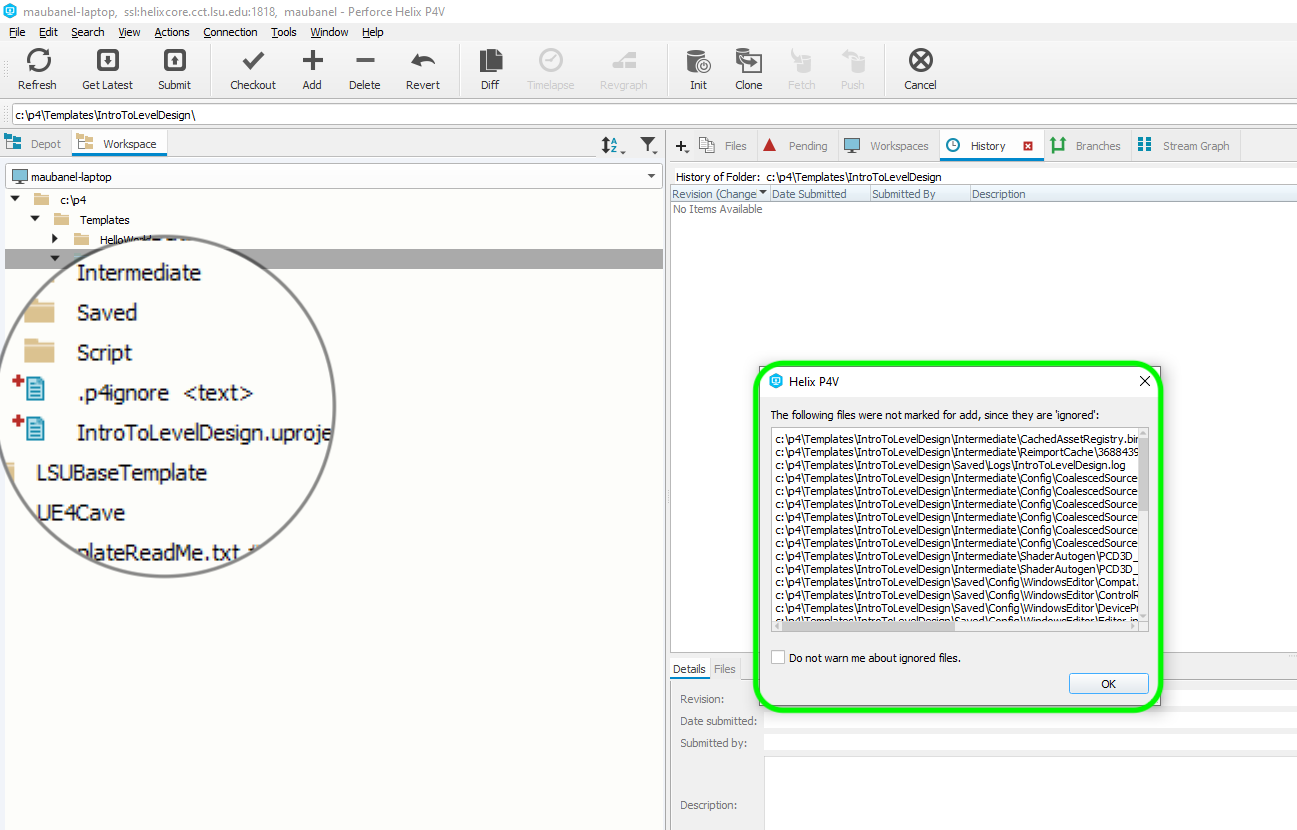
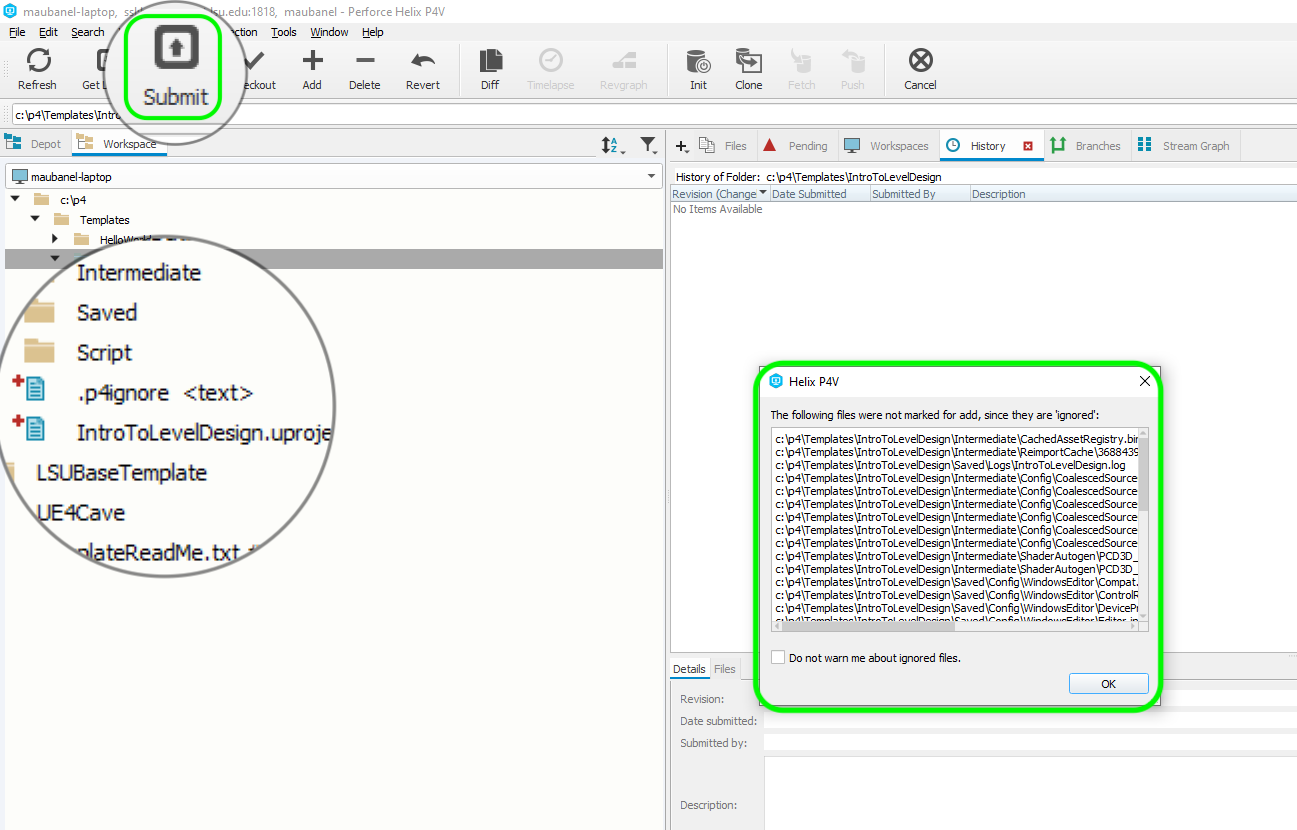
ue5 level design  update

Changed region(s): [[0.0617, 0.0, 0.2159, 0.1807]]

diff --git a/setting-up/README.md b/setting-up/README.md
@@ -115,7 +115,7 @@ In command prompt type `p4 set P4IGNORE=.p4ignore`.  Make sure there are no spac
 
 ##### `Step 11.`\|`UE5LD`| :large_blue_diamond: :small_blue_diamond: 
 
-Now if you have set up your **P4 Ignore**
+Now press the <kbd>Submit</kbd> button to send these local files to the **Depot** on the server.  The first pop-up will show the ignore file working.  It should list
 
 ![link to new repository for assignment](images/listIgnoreFiles.jpg)
 ![](../images/line2.png)
